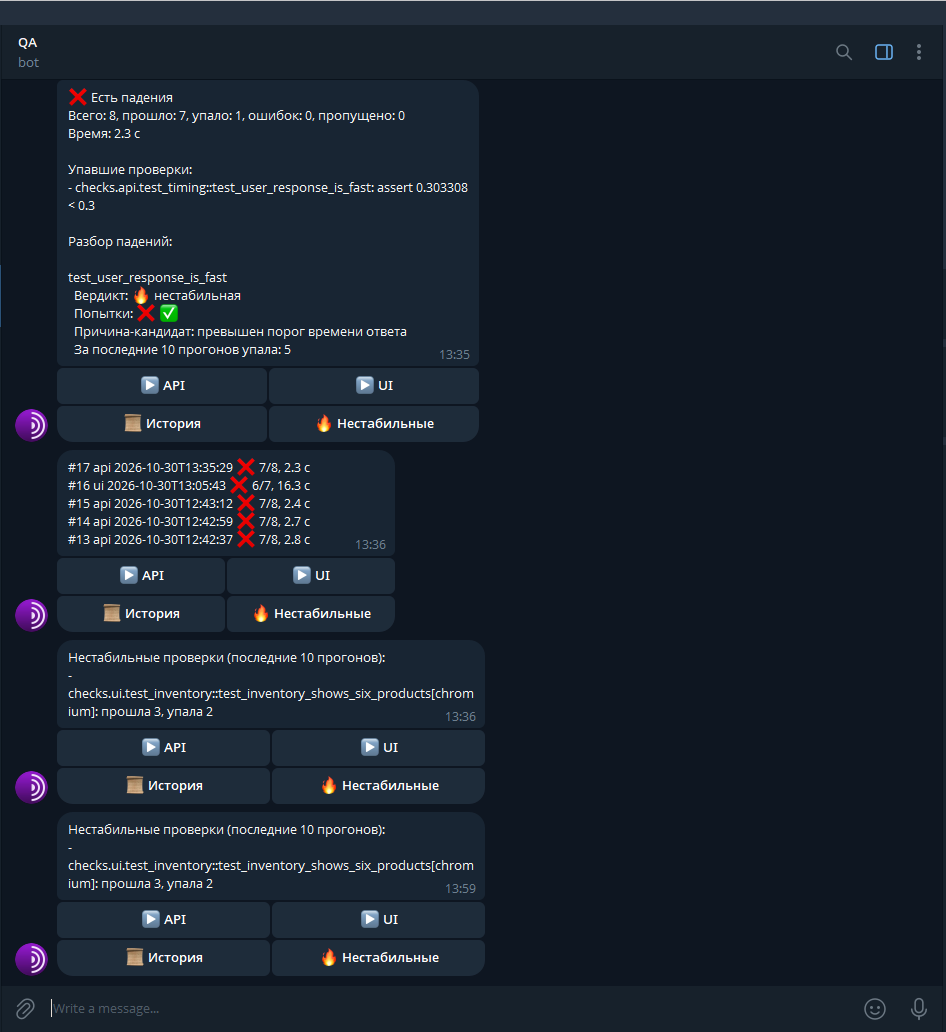
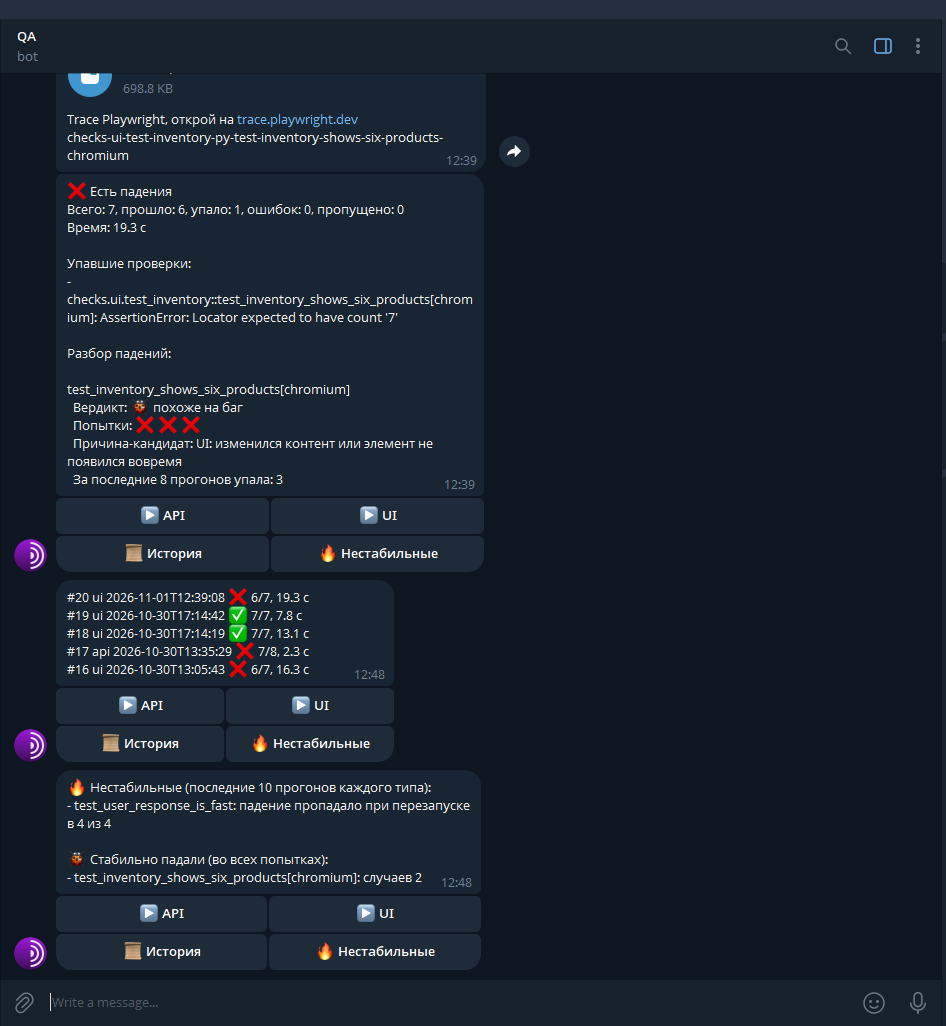
Update README and screenshots

diff --git a/tests/test_storage.py b/tests/test_storage.py
@@ -1,5 +1,6 @@
 from app.runner import CaseResult, RunResult
-from app.storage import get_flaky, get_recent_runs, init_db, save_run
+from app.storage import get_flaky_verdicts, get_recent_runs, init_db, save_run, save_triage
+from app.triage import TriageItem
 
 
 def make_result(outcome: str) -> RunResult:
@@ -15,6 +16,11 @@ def make_result(outcome: str) -> RunResult:
     )
 
 
+def triage_item(verdict: str) -> TriageItem:
+    attempts = ["failed", "passed"] if verdict == "flaky" else ["failed", "failed", "failed"]
+    return TriageItem("suite::sometimes_bad", attempts, verdict, "причина")
+
+
 def test_save_and_read_last_run(tmp_path):
     db = tmp_path / "test.db"
     init_db(db)
@@ -27,23 +33,54 @@ def test_save_and_read_last_run(tmp_path):
     assert runs[0]["total"] == 2
 
 
-def test_flaky_detects_mixed_outcomes(tmp_path):
+def test_flaky_verdicts_count_failures_that_vanished_on_rerun(tmp_path):
+    db = tmp_path / "test.db"
+    init_db(db)
+
+    for verdict in ("flaky", "flaky", "bug"):
+        run_id = save_run("checks/api", make_result("failed"), db)
+        save_triage(run_id, [triage_item(verdict)], db)
+
+    assert get_flaky_verdicts(10, db) == [{"test_name": "suite::sometimes_bad", "flaky": 2, "bug": 1}]
+
+
+def test_changed_test_is_a_bug_not_flaky(tmp_path):
+    """Проверка прошла, потом её изменили и она стабильно падает: это не нестабильность."""
     db = tmp_path / "test.db"
     init_db(db)
 
     save_run("checks/api", make_result("passed"), db)
-    save_run("checks/api", make_result("failed"), db)
+    run_id = save_run("checks/api", make_result("failed"), db)
+    save_triage(run_id, [triage_item("bug")], db)
 
-    flaky = get_flaky(10, db)
-    names = [item["test_name"] for item in flaky]
-    assert names == ["suite::sometimes_bad"]
+    assert get_flaky_verdicts(10, db) == [{"test_name": "suite::sometimes_bad", "flaky": 0, "bug": 1}]
 
 
-def test_stable_failure_is_not_flaky(tmp_path):
+def test_window_is_counted_per_target(tmp_path):
     db = tmp_path / "test.db"
     init_db(db)
 
-    save_run("checks/api", make_result("failed"), db)
+    run_id = save_run("checks/api", make_result("failed"), db)
+    save_triage(run_id, [triage_item("flaky")], db)
+    save_run("checks/ui", make_result("passed"), db)  # прогон UI не вытесняет историю API
+
+    assert [i["test_name"] for i in get_flaky_verdicts(1, db)] == ["suite::sometimes_bad"]
+
+
+def test_old_triage_leaves_the_window(tmp_path):
+    db = tmp_path / "test.db"
+    init_db(db)
+
+    run_id = save_run("checks/api", make_result("failed"), db)
+    save_triage(run_id, [triage_item("flaky")], db)
+    save_run("checks/api", make_result("passed"), db)
+
+    assert get_flaky_verdicts(1, db) == []
+
+
+def test_no_triage_means_empty_list(tmp_path):
+    db = tmp_path / "test.db"
+    init_db(db)
     save_run("checks/api", make_result("failed"), db)
 
-    assert get_flaky(10, db) == []
+    assert get_flaky_verdicts(10, db) == []

diff --git a/app/handlers.py b/app/handlers.py
@@ -12,11 +12,12 @@ from aiogram.types import (
 
 from app.config import ALLOWED_USER_ID
 from app.runner import format_report, run_checks
-from app.storage import get_fail_rate, get_flaky, get_recent_runs, save_run, save_triage
-from app.triage import TriageItem, format_triage, triage_failures
+from app.storage import get_fail_rate, get_flaky_verdicts, get_recent_runs, save_run, save_triage
+from app.triage import TriageItem, format_flaky, format_triage, triage_failures
 
 router = Router()
 RUN_LOCK = asyncio.Lock()
+MAX_TRACE_BYTES = 45 * 1024 * 1024  # лимит Telegram для файлов бота: 50 МБ
 
 
 def is_allowed(user_id: int) -> bool:
@@ -57,13 +58,7 @@ def history_text() -> str:
 
 
 def flaky_text() -> str:
-    items = get_flaky(10)
-    if not items:
-        return "Нестабильных проверок не найдено (последние 10 прогонов)."
-    lines = ["Нестабильные проверки (последние 10 прогонов):"]
-    for item in items:
-        lines.append(f'- {item["test_name"]}: прошла {item["passed"]}, упала {item["failed"]}')
-    return "\n".join(lines)
+    return format_flaky(get_flaky_verdicts(10))
 
 
 async def run_target(message: Message, user_id: int, target: str, title: str):
@@ -87,6 +82,10 @@ async def run_target(message: Message, user_id: int, target: str, title: str):
                     item.history_failed, item.history_total = get_fail_rate(item.name, target)
     for path in result.screenshots:
         await message.answer_photo(FSInputFile(path), caption=path.parent.name[:200])
+    for path in result.traces:
+        if path.stat().st_size <= MAX_TRACE_BYTES:
+            caption = f"Trace Playwright, открой на trace.playwright.dev\n{path.parent.name}"
+            await message.answer_document(FSInputFile(path), caption=caption[:200])
     report = format_report(result)
     if triage:
         report += "\n\n" + format_triage(triage)

diff --git a/app/runner.py b/app/runner.py
@@ -34,6 +34,7 @@ class RunResult:
     duration: float = 0.0
     cases: list[CaseResult] = field(default_factory=list)
     screenshots: list[Path] = field(default_factory=list)
+    traces: list[Path] = field(default_factory=list)
     crashed: bool = False
     crash_message: str = ""
 
@@ -66,6 +67,14 @@ def parse_junit(xml_path: Path) -> RunResult:
     return result
 
 
+def collect_artifacts(out_dir: Path, limit: int = 3) -> tuple[list[Path], list[Path]]:
+    """Скриншоты (*.png) и trace Playwright (trace.zip) упавших проверок."""
+    return (
+        sorted(out_dir.rglob("*.png"))[:limit],
+        sorted(out_dir.rglob("trace.zip"))[:limit],
+    )
+
+
 async def run_pytest(targets: list[str], out_dir: Path, timeout: int = 120) -> RunResult:
     """Один запуск pytest в чистом окружении; out_dir очищается и получает скриншоты."""
     shutil.rmtree(out_dir, ignore_errors=True)
@@ -76,6 +85,7 @@ async def run_pytest(targets: list[str], out_dir: Path, timeout: int = 120) -> R
             sys.executable, "-m", "pytest", *targets,
             f"--junitxml={xml_path}", "-q", "--tb=short",
             "--screenshot", "only-on-failure",
+            "--tracing", "retain-on-failure",
             "--output", str(out_dir),
             cwd=PROJECT_ROOT,
             env=clean_env(),
@@ -92,7 +102,7 @@ async def run_pytest(targets: list[str], out_dir: Path, timeout: int = 120) -> R
             tail = output.decode(errors="replace")[-500:]
             return RunResult(crashed=True, crash_message=tail)
         result = parse_junit(xml_path)
-        result.screenshots = sorted(out_dir.rglob("*.png"))[:3]
+        result.screenshots, result.traces = collect_artifacts(out_dir)
         return result
 
 

diff --git a/app/storage.py b/app/storage.py
@@ -76,16 +76,26 @@ def get_recent_runs(limit: int = 5, db_path: Path = DB_PATH) -> list[dict]:
         return [dict(row) for row in rows]
 
 
-def get_flaky(last_runs: int = 10, db_path: Path = DB_PATH) -> list[dict]:
+def get_flaky_verdicts(last_runs: int = 10, db_path: Path = DB_PATH) -> list[dict]:
+    """Итоги разбора падений за последние last_runs прогонов каждого target.
+
+    flaky: сколько раз падение исчезло при перезапуске;
+    bug: сколько раз проверка упала во всех попытках.
+    """
     query = """
-        SELECT test_name,
-               SUM(outcome = 'passed') AS passed,
-               SUM(outcome IN ('failed', 'error')) AS failed
-        FROM case_results
-        WHERE run_id IN (SELECT id FROM runs ORDER BY id DESC LIMIT ?)
-        GROUP BY test_name
-        HAVING passed > 0 AND failed > 0
-        ORDER BY failed DESC
+        SELECT t.test_name,
+               SUM(t.verdict = 'flaky') AS flaky,
+               SUM(t.verdict = 'bug') AS bug
+        FROM triage t
+        WHERE t.run_id IN (
+            SELECT id FROM (
+                SELECT id, ROW_NUMBER() OVER (PARTITION BY target ORDER BY id DESC) AS rn
+                FROM runs
+            ) WHERE rn <= ?
+        )
+        GROUP BY t.test_name
+        HAVING flaky > 0 OR bug > 0
+        ORDER BY flaky DESC, bug DESC, t.test_name
     """
     with _connect(db_path) as conn:
         return [dict(row) for row in conn.execute(query, (last_runs,))]

diff --git a/tests/test_triage.py b/tests/test_triage.py
@@ -8,7 +8,7 @@ from app.runner import CaseResult, RunResult
 from app.storage import get_fail_rate, init_db, save_run, save_triage
 from app.triage import (
     VERDICT_BUG, VERDICT_FLAKY, VERDICT_UNKNOWN,
-    TriageItem, case_nodeid, classify, format_triage, guess_cause, triage_failures,
+    TriageItem, case_nodeid, classify, format_flaky, format_triage, guess_cause, triage_failures,
 )
 
 
@@ -98,3 +98,22 @@ def test_save_triage_and_fail_rate(tmp_path: Path):
     save_triage(run_id, [TriageItem("m::test_a", ["failed", "passed"], VERDICT_FLAKY, "x")], db)
     assert get_fail_rate("m::test_a", "checks/api", 10, db) == (2, 3)
     assert get_fail_rate("m::test_a", "checks/ui", 10, db) == (0, 0)
+
+
+def test_format_flaky_separates_flaky_and_stable_failures():
+    items = [
+        {"test_name": "m::test_slow", "flaky": 5, "bug": 0},
+        {"test_name": "m::test_broken[chromium]", "flaky": 0, "bug": 2},
+    ]
+    text = format_flaky(items)
+    assert "Нестабильные" in text and "test_slow: падение пропадало при перезапуске в 5 из 5" in text
+    assert "Стабильно падали" in text and "test_broken[chromium]: случаев 2" in text
+
+
+def test_format_flaky_mixed_history_counts_all_failures():
+    text = format_flaky([{"test_name": "m::test_a", "flaky": 2, "bug": 1}])
+    assert "в 2 из 3" in text and "Стабильно падали" not in text
+
+
+def test_format_flaky_empty():
+    assert "не было" in format_flaky([])

diff --git a/app/triage.py b/app/triage.py
@@ -123,3 +123,24 @@ def format_triage(items: list[TriageItem], limit: int = 5) -> str:
     if len(items) > limit:
         lines += ["", f"…и ещё {len(items) - limit}"]
     return "\n".join(lines)
+
+
+def format_flaky(items: list[dict], last_runs: int = 10) -> str:
+    """Текст для /flaky: нестабильные (падение пропало при перезапуске) и стабильно падающие."""
+    flaky = [i for i in items if i["flaky"] > 0]
+    bugs = [i for i in items if i["flaky"] == 0 and i["bug"] > 0]
+    if not flaky and not bugs:
+        return f"Падений с разбором за последние {last_runs} прогонов не было."
+    lines: list[str] = []
+    if flaky:
+        lines.append(f"🔥 Нестабильные (последние {last_runs} прогонов каждого типа):")
+        for i in flaky:
+            total = i["flaky"] + i["bug"]
+            lines.append(f"- {i['test_name'].split('::')[-1]}: падение пропадало при перезапуске в {i['flaky']} из {total}")
+    if bugs:
+        if lines:
+            lines.append("")
+        lines.append("🐞 Стабильно падали (во всех попытках):")
+        for i in bugs:
+            lines.append(f"- {i['test_name'].split('::')[-1]}: случаев {i['bug']}")
+    return "\n".join(lines)

diff --git a/tests/test_runner.py b/tests/test_runner.py
@@ -1,4 +1,4 @@
-from app.runner import CaseResult, RunResult, clean_env, format_report, parse_junit
+from app.runner import CaseResult, RunResult, clean_env, collect_artifacts, format_report, parse_junit
 
 XML = """<?xml version="1.0" encoding="utf-8"?>
 <testsuites>
@@ -50,3 +50,27 @@ def test_format_report_for_failed_run():
 
     assert "Есть падения" in text
     assert "suite::bad: boom" in text
+
+
+def test_collect_artifacts_finds_screenshots_and_traces(tmp_path):
+    test_dir = tmp_path / "checks-ui-test-x-chromium"
+    test_dir.mkdir()
+    (test_dir / "test-failed-1.png").write_bytes(b"png")
+    (test_dir / "trace.zip").write_bytes(b"zip")
+    (test_dir / "notes.txt").write_text("ignore me")
+
+    screenshots, traces = collect_artifacts(tmp_path)
+
+    assert [p.name for p in screenshots] == ["test-failed-1.png"]
+    assert [p.name for p in traces] == ["trace.zip"]
+
+
+def test_collect_artifacts_respects_limit(tmp_path):
+    for i in range(5):
+        folder = tmp_path / f"case{i}"
+        folder.mkdir()
+        (folder / "trace.zip").write_bytes(b"zip")
+
+    _, traces = collect_artifacts(tmp_path, limit=3)
+
+    assert len(traces) == 3
